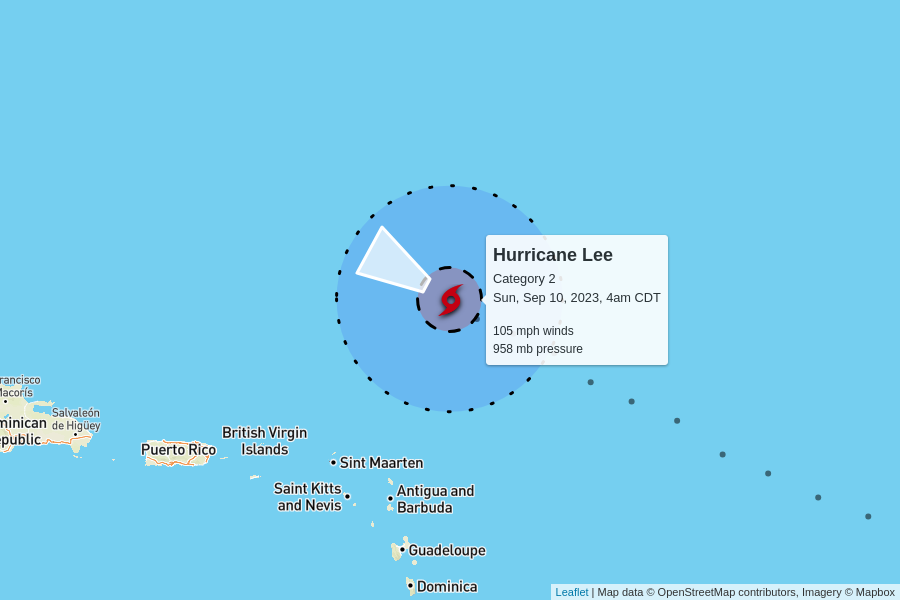
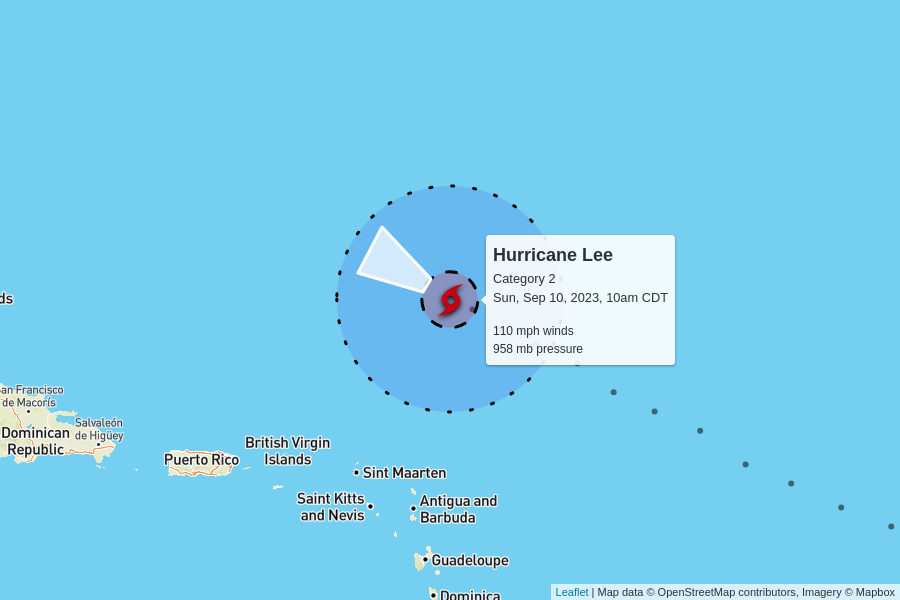
automatic update

diff --git a/docs/index.html b/docs/index.html
@@ -104,7 +104,7 @@
         <td colspan="6" class="storm category-2" >
           <h2>
             Hurricane Lee - Category 2
-            <p class="updated">last updated <span data-time>2023-09-10T09:00:00.000Z</span></p>
+            <p class="updated">last updated <span data-time>2023-09-10T15:00:00.000Z</span></p>
           </h2>
         </td>
       </tr>
@@ -119,10 +119,10 @@
       </tr>
       <tr>
         <td class="spacer"></td>
-        <td>105 mph<br>0 mph since last update</td>
-        <td>958 mb<br>-4 mb since last update</td>
+        <td>110 mph<br>+5 mph since last update</td>
+        <td>958 mb<br>0 mb since last update</td>
         <td>
-          9 mph to the west-northwest
+          8 mph to the west-northwest
           <br/>
           <span style="display: inline-block; font-size: 1.5em; transform: rotate(300deg);">↑</span>
         </td>
@@ -148,7 +148,7 @@
         <td colspan="6" class="storm category-0" >
           <h2>
             Tropical Storm Margot
-            <p class="updated">last updated <span data-time>2023-09-10T09:00:00.000Z</span></p>
+            <p class="updated">last updated <span data-time>2023-09-10T15:00:00.000Z</span></p>
           </h2>
         </td>
       </tr>
@@ -166,9 +166,9 @@
         <td>50 mph<br>0 mph since last update</td>
         <td>1000 mb<br>0 mb since last update</td>
         <td>
-          8 mph to the northwest
+          9 mph to the north-northwest
           <br/>
-          <span style="display: inline-block; font-size: 1.5em; transform: rotate(320deg);">↑</span>
+          <span style="display: inline-block; font-size: 1.5em; transform: rotate(340deg);">↑</span>
         </td>
         <td><a href="https://raw.githubusercontent.com/mgwalker/atlantic-hurricanes/main/data/csv/AL142023.csv">AL142023.csv</a></td>
         <td><a href="https://www.nhc.noaa.gov/archive/2023/MARGOT.shtml?">NHC advisories</a></td>
